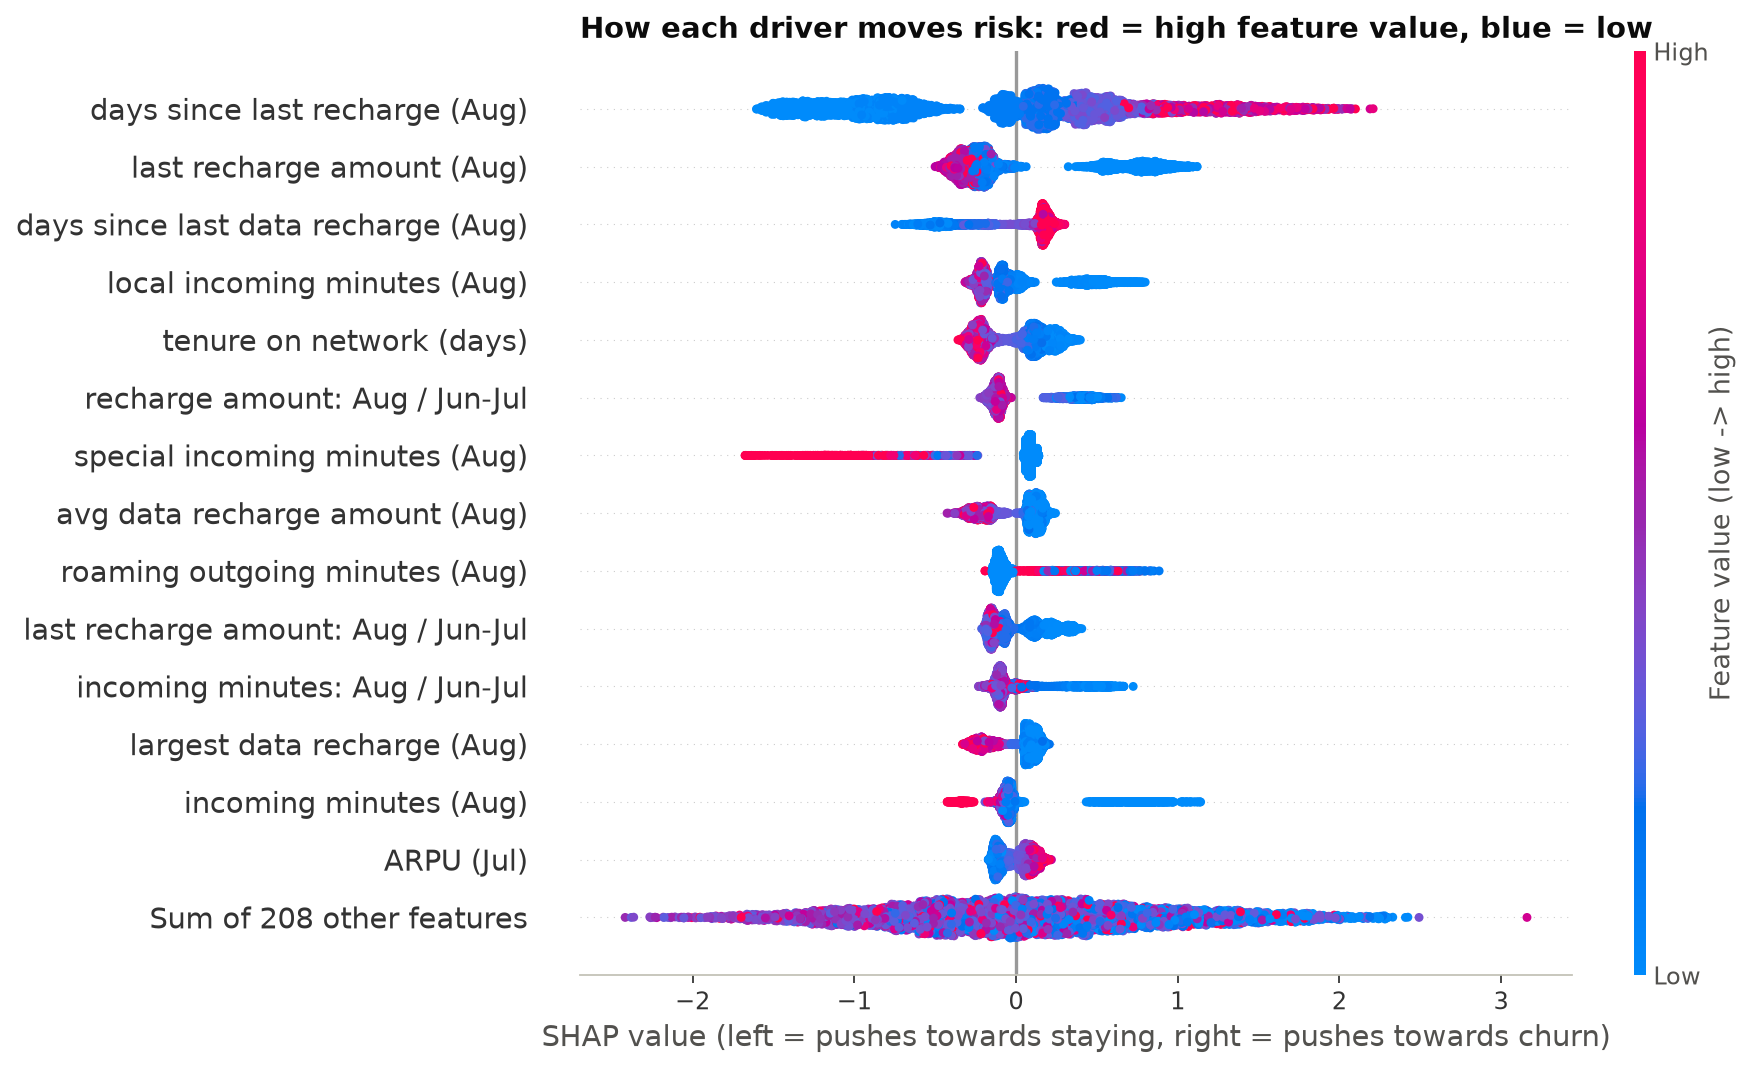
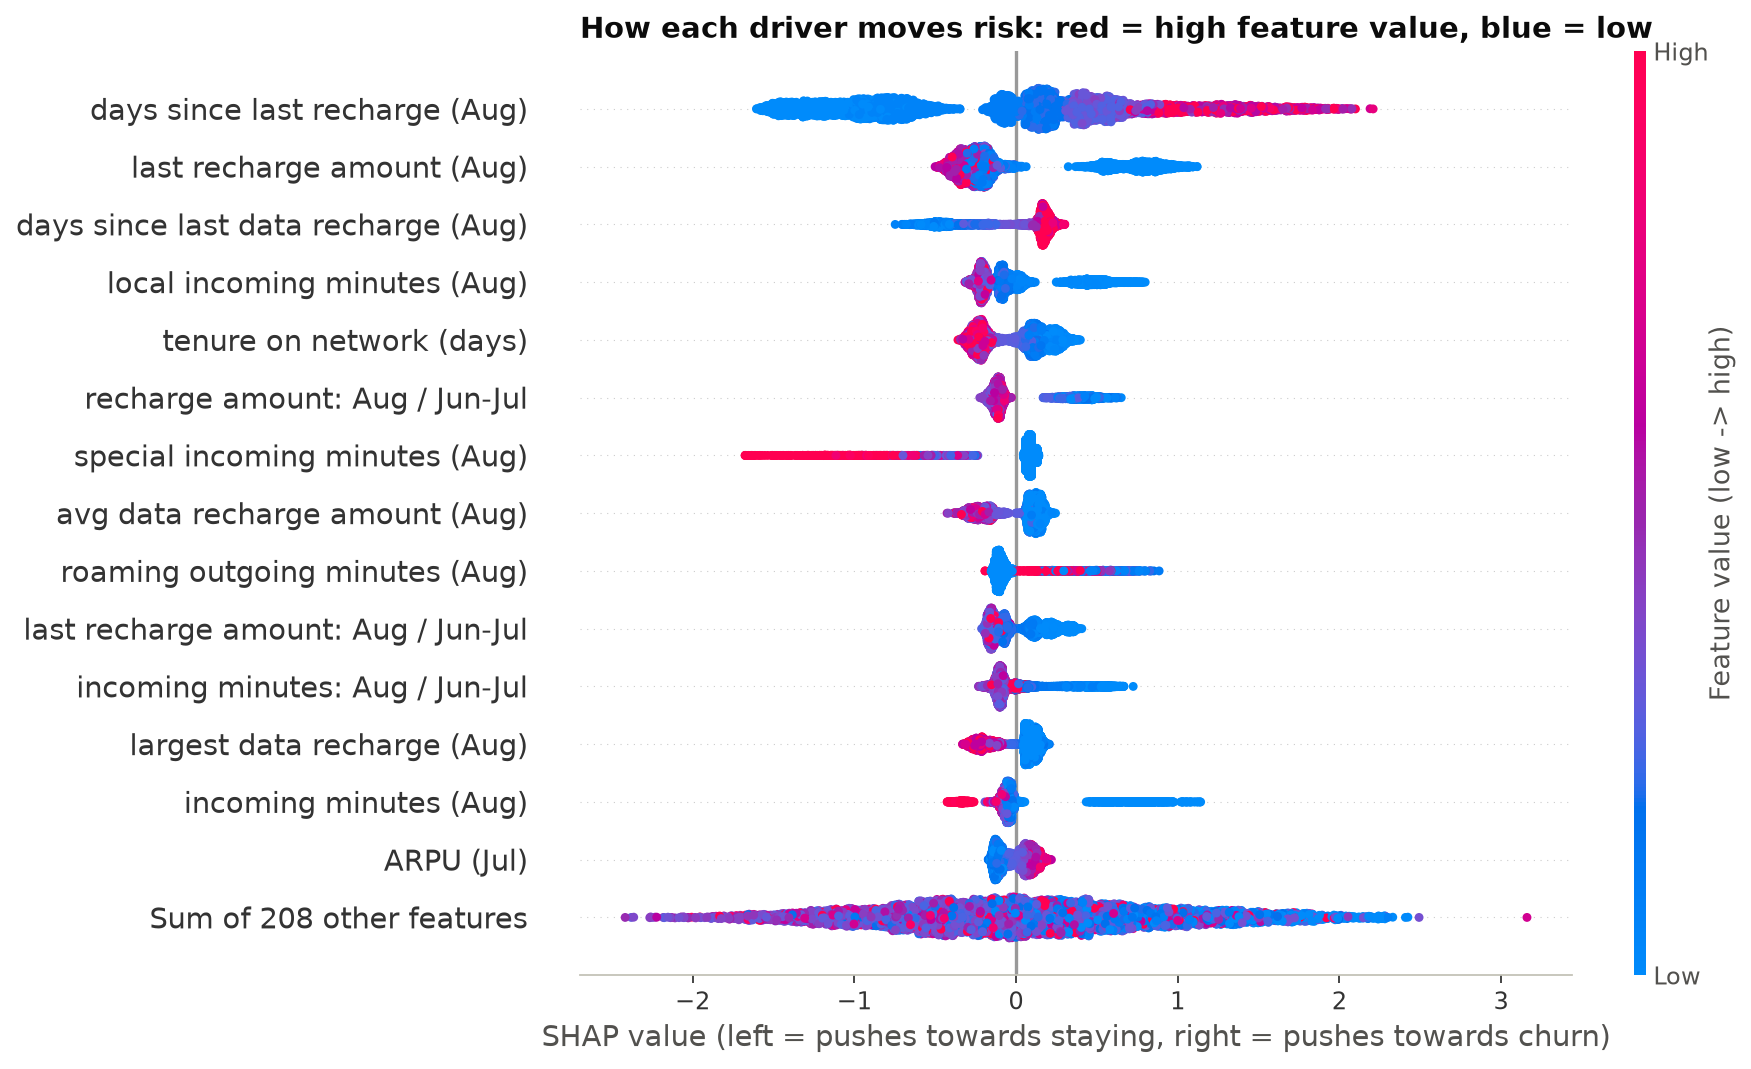
README, animated architecture diagram and Vercel-ready dashboard
Lean pinned requirements, app data as csv.gz (no pyarrow at runtime), vercel.json, grammar fix in reason codes, dashboard screenshots.

Claude-Session: https://claude.ai/code/session_01EY61Mj3HAFky6FecXmkXDK

diff --git a/README.md b/README.md
@@ -1,11 +1,203 @@
-# Telecom Customer Churn Prediction
+<div align="center">
 
-Rebuild in progress.
+# Churn Radar: Telecom Customer Churn Prediction
 
-**Problem:** Using June-August behaviour, predict which high-value prepaid customers
-will become completely inactive in September, and how much revenue is at risk.
+**Find the high-value prepaid customers who are about to leave, see why, and know what they are worth before they go.**
 
-**Churn definition:** in month 9 the customer made no recharge (calls or data)
-AND had zero incoming calls, outgoing calls and mobile data usage.
+[![Live demo](https://img.shields.io/badge/LIVE%20DEMO-open%20the%20dashboard-eb6834?style=for-the-badge&logo=vercel&logoColor=white)](https://YOUR-PROJECT.vercel.app)
 
-**High-value customer:** top 30% by average June-July spend (call + data recharge).
+![Python](https://img.shields.io/badge/Python-3-2a78d6?logo=python&logoColor=white)
+![LightGBM](https://img.shields.io/badge/Model-LightGBM-1baf7a)
+![SHAP](https://img.shields.io/badge/Explainability-SHAP-6250d6)
+![FastAPI](https://img.shields.io/badge/API-FastAPI-009688?logo=fastapi&logoColor=white)
+![Vercel](https://img.shields.io/badge/Deployed%20on-Vercel-000000?logo=vercel)
+![Test ROC-AUC](https://img.shields.io/badge/Test%20ROC--AUC-0.949-eb6834)
+![Test PR-AUC](https://img.shields.io/badge/Test%20PR--AUC-0.644-eb6834)
+
+<img src="docs/images/overview.png" alt="Churn Radar dashboard - overview page" width="95%">
+
+</div>
+
+---
+
+## Overview
+
+A telecom operator loses money every time a profitable prepaid customer quietly stops recharging. Prepaid customers have no contract to cancel, so they simply disappear.
+
+**Churn Radar** looks at a customer's June, July and August behaviour and predicts whether they will leave in **September**. For every customer it gives:
+
+- a **calibrated churn probability** (a 70% means roughly 70 out of 100 such customers leave),
+- a **risk tier** and whether they belong on this month's **retention call list**,
+- the **revenue at risk** (probability x monthly value), so the team calls the most valuable customers first,
+- the **top reasons** behind the score, in plain words ("no recharge in Aug", "incoming minutes (Aug) = 0").
+
+All of it runs behind a live web dashboard with a customer checker, a what-if simulator and batch CSV scoring.
+
+| | |
+| --- | --- |
+| **Data** | Kaggle telecom churn dataset (Indian prepaid market, 2014): 99,999 customers x 226 columns, 4 months |
+| **Scope** | 30,001 high-value customers (top 30% by June-July spend) |
+| **Target** | churn in September: no recharge **and** no usage at all (6.86% of customers) |
+| **Model** | LightGBM with class weights, isotonic calibration, SHAP explanations |
+| **App** | FastAPI backend + HTML/CSS/JS dashboard, one deployment on Vercel |
+
+## Aim
+
+1. Predict which high-value customers will churn next month, early enough to act.
+2. Rank them by **money at risk**, not by probability alone.
+3. Explain every prediction so the retention team knows **what offer to make**.
+4. Do it honestly: no data leakage, a test set opened once, and numbers in this README that come straight from the code's saved outputs.
+
+## Problem statement
+
+> Given three months of usage, recharge and data activity for a prepaid customer, estimate the probability that the customer stops recharging and stops using the network in the following month, and turn that estimate into a call list the retention team can afford.
+
+What makes it hard:
+
+- **Imbalance:** only 6.86% of high-value customers churn, so accuracy is misleading (predicting "nobody churns" already scores 93%).
+- **Leakage traps:** September columns describe the answer; one of them (`sep_vbc_3g`) does not even end in `_9`.
+- **Missing values with meaning:** an empty data-recharge field means "never recharged data", not "unknown".
+- **Business cost:** a retention call costs money; a lost customer costs far more. The decision threshold has to reflect that.
+
+## Key features
+
+| | Feature | What it means |
+| --- | --- | --- |
+| &#x1F9EA; | **Leak-free pipeline** | Split first; every cleaning and feature rule works on one customer's own row; September never reaches the model; checks stop the run if anything leaks |
+| &#x1F4C8; | **Behaviour-change features** | August compared with each customer's own June-July baseline, days since last recharge, behaviour flags: PR-AUC 0.656 to 0.684 |
+| &#x1F3AF; | **Calibrated probabilities** | Isotonic calibration: Brier score 0.071 to 0.036, average prediction 7.1% vs 6.85% actual |
+| &#x1F4B0; | **Revenue at risk + profit threshold** | Threshold 0.60 chosen on training data for the best campaign value, not by habit |
+| &#x1F50D; | **Explainable** | Exact SHAP values per customer, turned into plain-English reason codes |
+| &#x23F1;&#xFE0F; | **Tested over time** | A model trained on July data still works on September (PR-AUC 0.588 vs 0.592) |
+| &#x1F5A5;&#xFE0F; | **Live dashboard** | Overview, live checker with what-if sliders, ranked customer list, CSV batch scoring, model card |
+
+## Architecture
+
+<div align="center">
+<img src="docs/architecture.svg" alt="Animated architecture diagram: offline ML pipeline feeding a FastAPI and HTML dashboard on Vercel" width="100%">
+</div>
+
+The model is trained **offline** once (`src/`, steps 1 to 6). The saved artifacts (`models/`, `app/data/`) are loaded by a FastAPI app that also serves the dashboard, so the whole product is **one Vercel deployment** with no separate backend server. The app computes SHAP values with LightGBM's own `pred_contrib`, which is identical to `shap.TreeExplainer` (checked: difference 0.0), so the deployed app does not need the `shap` package.
+
+## Dashboard
+
+**[&#x25B6; Open the live dashboard](https://YOUR-PROJECT.vercel.app)**
+
+| Page | What you can do |
+| --- | --- |
+| **Overview** | KPIs, risk tiers with revenue at risk, "who to call first" gains curve, top churn drivers |
+| **Live checker** | Enter a customer ID: churn probability, tier, revenue at risk, SHAP "why" chart and a suggested action. Move the **what-if sliders** (August recharge day and amount, calls, data) and watch the risk change |
+| **Customers at risk** | 6,001 held-out customers ranked by revenue at risk, with filters and top reasons |
+| **Score a file** | Upload customers in the original dataset format and download scored results (sample file provided) |
+| **About the model** | Metrics, confusion matrix and the model's limits |
+
+<table>
+<tr>
+<td width="50%"><img src="docs/images/checker.png" alt="Live checker with what-if simulation"></td>
+<td width="50%"><img src="docs/images/customers.png" alt="Customers ranked by revenue at risk"></td>
+</tr>
+<tr>
+<td align="center"><b>Live checker:</b> a 94.7% customer drops to 2.8% if August had looked normal</td>
+<td align="center"><b>Customers at risk:</b> ranked by money, with reasons</td>
+</tr>
+</table>
+
+**Try these IDs** in the live checker (all from the held-out test set):
+
+| Customer ID | What you will see |
+| --- | --- |
+| `7002267517` | Very high risk (94.7%), churned: no recharge in August |
+| `7000136727` | High risk (58.4%), churned |
+| `7001040207` | Medium risk (29.5%), churned |
+| `7001840261` | Most loyal customer (0.0%), stayed |
+| `7000460397` | An honest miss: scored 17.8%, but churned |
+
+## Results
+
+### Test set (6,001 customers, never used for any choice)
+
+| Metric | Value |
+| --- | --- |
+| ROC-AUC | **0.949** (95% CI 0.939-0.959) |
+| PR-AUC | **0.644** (95% CI 0.593-0.695); random guessing = 0.068 |
+| Churners caught at threshold 0.60 | **82%** (338 of 411) |
+| Precision at threshold 0.60 | 45% (750 customers contacted) |
+| Churners in the top 10% / 20% of scores | **76%** / 91% |
+| Brier score (calibration) | 0.071 before, 0.036 after |
+
+| Threshold | Precision | Recall | F1 | Accuracy | Customers flagged |
+| --- | --- | --- | --- | --- | --- |
+| 0.50 (default) | 41.0% | 86.1% | 0.555 | 90.6% | 864 |
+| **0.60 (profit-optimal, used)** | **45.1%** | **82.2%** | **0.582** | **91.9%** | **750** |
+| 0.81 (best F1) | 55.7% | 69.3% | 0.618 | 94.1% | 512 |
+
+**No overfitting, no leakage:** train 0.760, cross-validation 0.681, test 0.644 (PR-AUC). The test score is slightly below CV and inside its confidence interval.
+
+| Risk tier | Customers | Actually churned | Revenue at risk / month |
+| --- | --- | --- | --- |
+| Very high (60%+) | 165 | 78.8% | Rs 78,354 |
+| High (30-60%) | 318 | 45.9% | Rs 86,840 |
+| Medium (10-30%) | 446 | 18.6% | Rs 43,689 |
+| Low (<10%) | 5,072 | 1.0% | Rs 29,307 |
+
+<table>
+<tr>
+<td width="50%"><img src="reports/figures/evaluation/08_test_gains_lift.png" alt="Gains and lift on the test set"></td>
+<td width="50%"><img src="reports/figures/evaluation/06_test_confusion_matrix.png" alt="Confusion matrix at the chosen threshold"></td>
+</tr>
+<tr>
+<td width="50%"><img src="reports/figures/explain/01_shap_importance.png" alt="Top churn drivers by SHAP"></td>
+<td width="50%"><img src="reports/figures/evaluation/07_test_calibration.png" alt="Calibration before and after isotonic"></td>
+</tr>
+</table>
+
+### What drives churn (SHAP)
+
+1. **Days since the last recharge in August**: the strongest signal by far; risk jumps after about 9-10 days.
+2. **Size of the last August recharge**: a Rs 0 last recharge pushes risk up.
+3. **Days since the last data recharge**: risk rises after about 11 days.
+4. **Incoming calls in August**: zero incoming minutes usually means the SIM has been put away.
+5. **Tenure**: newer customers leave more often.
+
+### Does it hold up next month?
+
+| | PR-AUC | ROC-AUC | Churners in top 10% |
+| --- | --- | --- | --- |
+| Trained and validated on July data | 0.592 | 0.940 | 72.7% |
+| **Trained on July, tested on September** | **0.588** | **0.940** | **73.3%** |
+| Best case (trained on September itself) | 0.595 | 0.944 | 75.5% |
+
+A model one month old loses only 0.007 PR-AUC against the best possible case, so **retraining once a month is enough**.
+
+<details>
+<summary><b>More charts</b> (EDA, model comparison, profit curve, temporal check)</summary>
+
+| | |
+| --- | --- |
+| <img src="reports/figures/02_good_vs_action_phase.png" alt="Good vs action phase"> | <img src="reports/figures/05_churn_by_last_recharge.png" alt="Churn by last recharge"> |
+| <img src="reports/figures/model/01_model_families.png" alt="Model families"> | <img src="reports/figures/features/02_feature_ablation.png" alt="Feature ablation"> |
+| <img src="reports/figures/evaluation/09_test_profit_curve.png" alt="Profit curve"> | <img src="reports/figures/temporal/02_metrics_in_vs_out_of_time.png" alt="Temporal validation"> |
+
+</details>
+
+## Business benefits
+
+- **Call fewer people, save more revenue:** calling the top 10% of scores reaches 76% of all churners, instead of 10% with random calling.
+- **Spend where the money is:** ranking by revenue at risk puts Rs 165k of the Rs 238k monthly revenue at risk into the two highest tiers (483 customers).
+- **Know what to offer:** reason codes say whether the problem is a stopped recharge, collapsing calls, falling data use or roaming, so the offer can match.
+- **Positive campaign value:** with illustrative costs (Rs 100 per offer, 30% of contacted churners saved, 3 months of revenue kept) the 0.60 threshold returns about Rs 98,730 net on the test customers alone. Replace these assumptions with the company's own numbers.
+- **Trustworthy:** calibrated probabilities, honest test numbers, a model card and a documented miss rate let managers decide how far to trust it.
+
+## Conclusion
+
+Churn in this market is not a slow fade: valuable customers recharge normally in June, cut back in July and **stop almost completely in August**. Comparing each customer's August with their own June-July habits, and especially counting the days since their last recharge, turns that pattern into a model that ranks churners well (ROC-AUC 0.949), gives honest probabilities, and holds up a month later.
+
+The result is a working product rather than a notebook: a retention team can open the dashboard, see who to call, how much revenue each call protects and why each customer is at risk, then score next month's file with one upload.
+
+---
+
+<div align="center">
+
+Built by **[@AhmadShahzad357-beep](https://github.com/AhmadShahzad357-beep)** &#xB7; Data: Kaggle telecom churn dataset
+
+</div>
